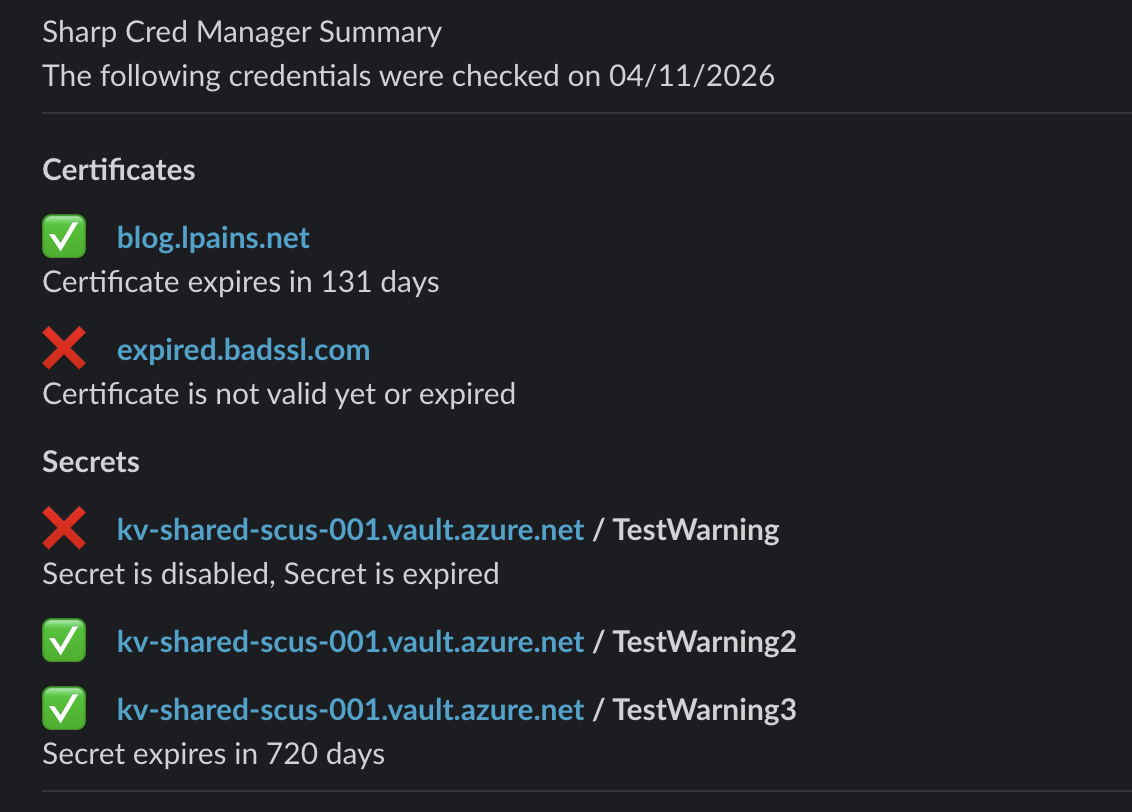
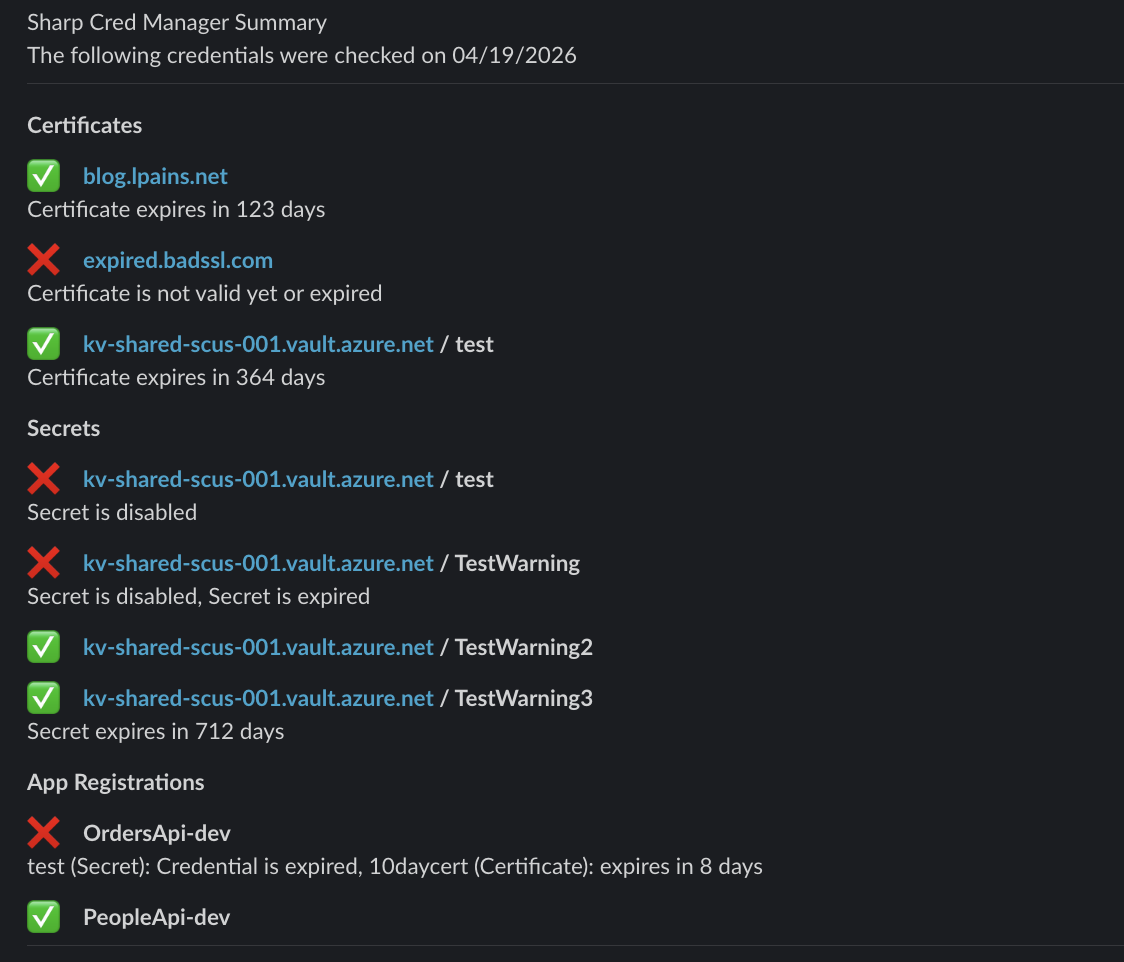
Updated docs with app registration under v2. New Teams image missing.

Changed region(s): [[0.0, 0.0, 0.7162, 0.9852], [0.4048, 0.5542, 0.5294, 0.6158]]

diff --git a/readme.md b/readme.md
@@ -5,6 +5,8 @@ This project aims to provide a simple tool to monitor TLS certificates and secre
 
 ![Demo frontend image 2](/docs/demo2.png)
 
+![Demo frontend image 3](/docs/demo3.png)
+
 Additionally, the app can be configured to run jobs at a given schedule. The jobs will check the configured websites and secrets and send a message to a Webhook with a summary of their validity.
 
 Teams message:
@@ -19,6 +21,7 @@ Slack message:
 V2 is a new major version that introduces:
 1. **Azure Key Vault secret monitoring** — monitor secrets' expiration and enabled/active status alongside certificates
 2. **Secrets dashboard tab** — the web UI now has a Secrets tab alongside the existing Certificates tab
+3. **App registration dashboard tab** - the web UI now has a App Registrations tab alongside the existing certificates tab
 3. **Breaking Change**: The app was renamed from Sharp Cert Manager to **Sharp Cred Manager** as it now monitors credentials beyond certificates
 
 ### Migrate from v1.x to v2.x
@@ -38,10 +41,16 @@ V2 is a new major version that introduces:
 | `SECRET_WARNING_VALIDITY_DAYS` | Days before expiry to trigger a warning for secrets | 30 |
 | `SECRET_CHECK_INCLUDE_DISABLED` | When using a vault-only URL, include disabled secrets | false |
 | `SECRET_CHECK_REQUIRE_EXPIRE_DATE` | When using a vault-only URL, only monitor secrets that have an expiration date | true |
+| `APPREGISTRATION_1..N` | Azure App Registrations to monitor. Includes app secrets and app certificates. Use the App Id of the registration. | |
+| `APP_REG_WARNING_VALIDITY_DAYS` | Days before expiry to trigger a warning for app registration credentials | 30 |
 
 **Azure Key Vault permissions**
 
-To monitor secrets, the Key Vault Reader role or equivalent is required. The Reader role grants access to list the properties of secrets, but not the value. See [DefaultAzureCredential Class](https://learn.microsoft.com/en-us/dotnet/api/azure.identity.defaultazurecredential?view=azure-dotnet) for the list of possible ways to authenticate. It is not required nor recommended to allow sharp-cred-manager to read secret values.
+To monitor Key Vault secrets, the Key Vault Reader role or equivalent is required. The Reader role grants access to list the properties of secrets, but not the value. See [DefaultAzureCredential Class](https://learn.microsoft.com/en-us/dotnet/api/azure.identity.defaultazurecredential?view=azure-dotnet) for the list of possible ways to authenticate. It is not required nor recommended to allow sharp-cred-manager to read secret values.
+
+**Azure Graph permissions**
+
+To monitor app registrations, the user running the application (managed identity, service principal, or user in AZ CLI) needs read permission to the app registrations you setup to monitor. This permission can be granted a number of ways including granting `Application.Read.All` to the app registration being used (if any) or the `Directory Reader` Directory role. See [DefaultAzureCredential Class](https://learn.microsoft.com/en-us/dotnet/api/azure.identity.defaultazurecredential?view=azure-dotnet) for the list of possible ways to authenticate
 
 # Getting started
 
